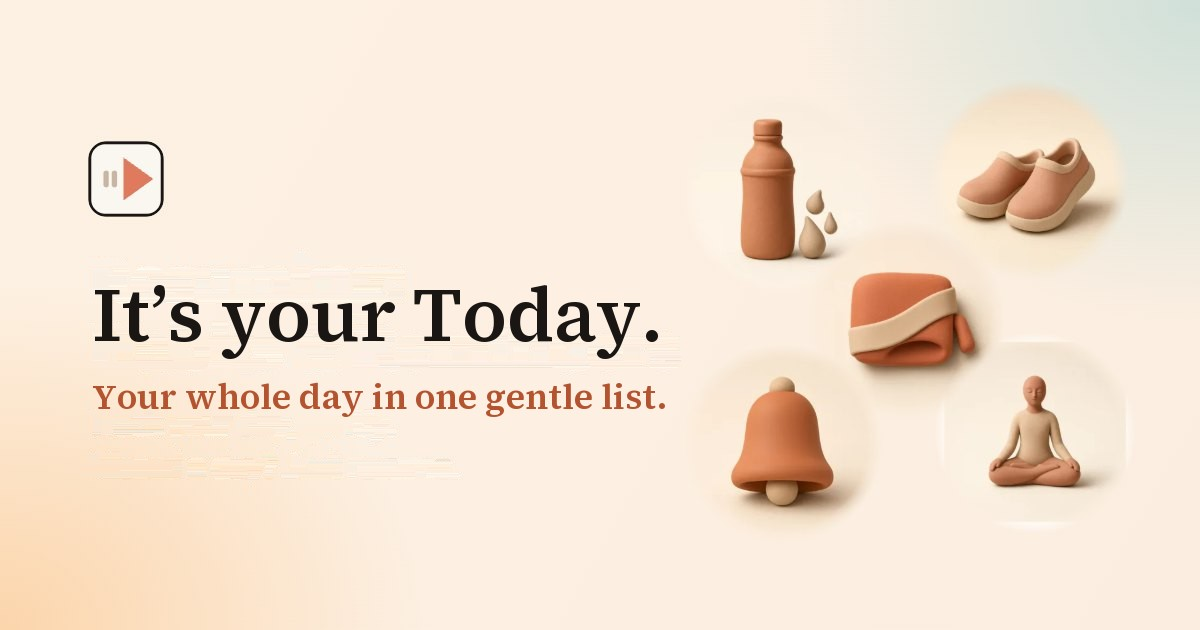
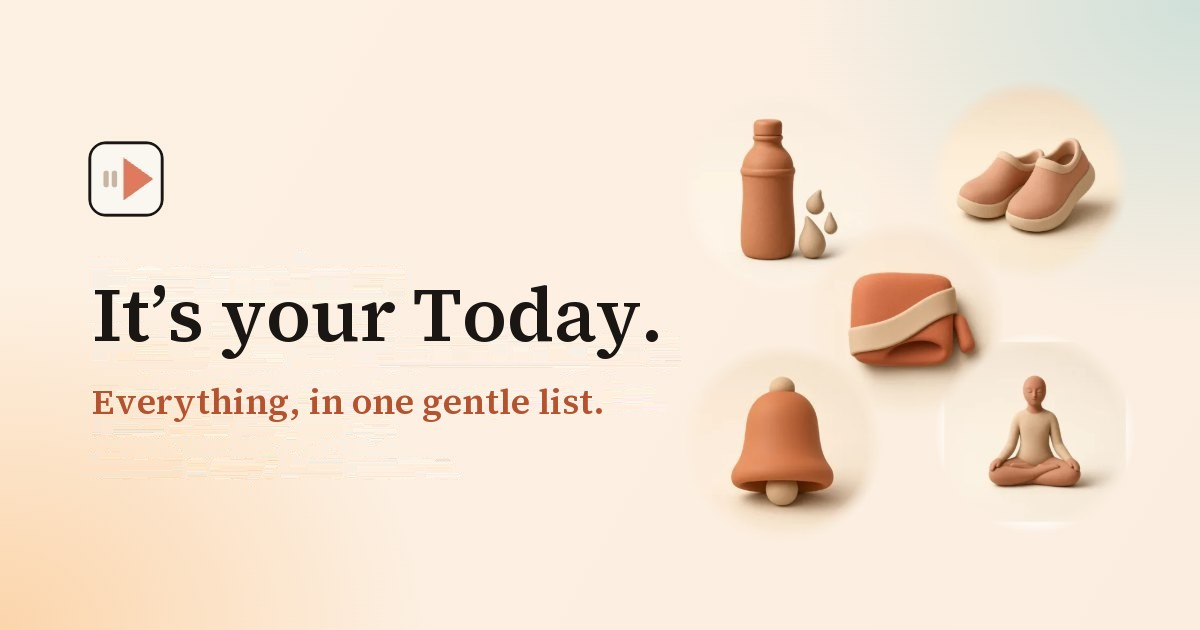
Use Everything, in one gentle list as the subtitle.
The daily-list line now matches the updated tagline on both sites and in the share images.

Changed region(s): [[0.0617, 0.6032, 0.555, 0.6635]]

diff --git a/index.html b/index.html
@@ -9,7 +9,7 @@
     <meta name="theme-color" content="#fff4e8" />
     <meta
       name="description"
-      content="Your whole day in one gentle list: habits, reminders, meetups, health, holidays and games. Free, no ads."
+      content="Everything in one gentle list: habits, reminders, meetups, health, holidays and games. Free, no ads."
     />
     <link rel="canonical" href="https://resuming.me/" />
     <meta property="og:type" content="website" />
@@ -17,7 +17,7 @@
     <meta property="og:title" content="Resuming: It’s your Today" />
     <meta
       property="og:description"
-      content="Your whole day in one gentle list: habits, reminders, meetups, health, holidays and games. Free, no ads."
+      content="Everything in one gentle list: habits, reminders, meetups, health, holidays and games. Free, no ads."
     />
     <meta property="og:url" content="https://resuming.me/" />
     <meta property="og:image" content="https://resuming.me/og.jpg" />
@@ -27,7 +27,7 @@
     <meta name="twitter:title" content="Resuming: It’s your Today" />
     <meta
       name="twitter:description"
-      content="Your whole day in one gentle list: habits, reminders, meetups, health, holidays and games. Free, no ads."
+      content="Everything in one gentle list: habits, reminders, meetups, health, holidays and games. Free, no ads."
     />
     <meta name="twitter:image" content="https://resuming.me/og.jpg" />
     <script>

diff --git a/marketing/src/i18n/en.ts b/marketing/src/i18n/en.ts
@@ -6,7 +6,7 @@ export const en = {
     title: 'Resuming: It’s your Today · Free Habit, Reminder & Meetup App',
     socialTitle: 'Resuming: It’s your Today',
     description:
-      'Your whole day in one gentle list: habits, reminders, meetups, health, holidays and games. Free, no ads, in 7 languages.',
+      'Everything in one gentle list: habits, reminders, meetups, health, holidays and games. Free, no ads, in 7 languages.',
     imageAlt: 'Resuming. Missed a day? Just resume. Habits, Health and Reminders, beside a painting of a woman walking toward the morning sun.',
   },
   nav: {
@@ -35,7 +35,7 @@ export const en = {
     eyebrow: 'No ads · 7 languages · Works in your browser',
     title: 'It’s your Today.',
     titleAccent: 'Just resume.',
-    subtitle: 'Your whole day in one gentle list.',
+    subtitle: 'Everything, in one gentle list.',
     sub: 'A free daily app for your habits, reminders, meetups, health, holidays and games, all on one screen. Plan ahead for tomorrow, and if you miss a day, just resume.',
     lead: 'One gentle list for your day: a short walk, water, Pranayam, your BP, and the family’s bills, doctor visits and weddings. When life gets busy, pick up where you left off. No guilt, no broken streaks.',
     videoLabel: 'The Resuming app: ticking off water, a Kapalabhati timer, resuming a walk, and a wedding reminder with its invitation card.',

diff --git a/src/lib/messages/ta.ts b/src/lib/messages/ta.ts
@@ -38,7 +38,7 @@ export const ta: DeepString<typeof en> = {
     tagline: 'ஒரு நாள் தவறிவிட்டதா?',
     taglineAccent: 'மீண்டும் தொடங்கு.',
     heroTitle: 'இது உங்கள் இன்று.',
-    heroSubtitle: 'உங்கள் முழு நாளும், ஒரு எளிய பட்டியலில்.',
+    heroSubtitle: 'எல்லாமே, ஒரு எளிய பட்டியலில்.',
     explainer:
       'உங்கள் பழக்கங்கள், நினைவூட்டல்கள், சந்திப்புகள், உடல்நலம், பண்டிகைகள், விளையாட்டுகளுக்கான இலவச தினசரி செயலி. ஒரு நாள் தவறிவிட்டதா?',
     getStarted: 'தொடங்கு',

diff --git a/src/lib/messages/bn.ts b/src/lib/messages/bn.ts
@@ -38,7 +38,7 @@ export const bn: DeepString<typeof en> = {
     tagline: 'একটা দিন মিস হয়ে গেছে?',
     taglineAccent: 'আবার চালিয়ে যান।',
     heroTitle: 'এটা আপনার আজ।',
-    heroSubtitle: 'আপনার পুরো দিন, একটি সহজ তালিকায়।',
+    heroSubtitle: 'সবকিছু, একটি সহজ তালিকায়।',
     explainer:
       'আপনার অভ্যাস, রিমাইন্ডার, দেখা-সাক্ষাৎ, স্বাস্থ্য, উৎসব আর খেলার জন্য একটি বিনামূল্যের দৈনিক অ্যাপ। একটা দিন মিস হয়ে গেছে?',
     getStarted: 'শুরু করুন',

diff --git a/src/lib/messages/te.ts b/src/lib/messages/te.ts
@@ -38,7 +38,7 @@ export const te: DeepString<typeof en> = {
     tagline: 'ఒక రోజు తప్పిందా?',
     taglineAccent: 'మళ్లీ కొనసాగించు.',
     heroTitle: 'ఇది మీ ఈరోజు.',
-    heroSubtitle: 'మీ రోజంతా, ఒక సులభమైన జాబితాలో.',
+    heroSubtitle: 'అన్నీ, ఒక సులభమైన జాబితాలో.',
     explainer:
       'మీ అలవాట్లు, రిమైండర్లు, కలయికలు, ఆరోగ్యం, పండుగలు, ఆటల కోసం ఉచిత రోజువారీ యాప్. ఒక రోజు తప్పిందా?',
     getStarted: 'మొదలుపెట్టు',

diff --git a/src/lib/messages/mr.ts b/src/lib/messages/mr.ts
@@ -38,7 +38,7 @@ export const mr: DeepString<typeof en> = {
     tagline: 'एक दिवस चुकला?',
     taglineAccent: 'पुन्हा सुरू करा.',
     heroTitle: 'हा तुमचा आज आहे.',
-    heroSubtitle: 'तुमचा संपूर्ण दिवस, एका सोप्या यादीत.',
+    heroSubtitle: 'सगळं काही, एका सोप्या यादीत.',
     explainer:
       'तुमच्या सवयी, रिमाइंडर, भेटीगाठी, आरोग्य, सण आणि खेळांसाठी एक मोफत दैनंदिन ॲप. एक दिवस चुकला?',
     getStarted: 'सुरू करा',

diff --git a/src/lib/messages/hi.ts b/src/lib/messages/hi.ts
@@ -38,7 +38,7 @@ export const hi: DeepString<typeof en> = {
     tagline: 'एक दिन छूट गया?',
     taglineAccent: 'बस फिर शुरू करो।',
     heroTitle: 'यह आपका आज है।',
-    heroSubtitle: 'आपका पूरा दिन, एक सहज सूची में।',
+    heroSubtitle: 'सब कुछ, एक सहज सूची में।',
     explainer:
       'आपकी आदतों, रिमाइंडर, मुलाकातों, सेहत, त्योहारों और खेलों के लिए एक मुफ़्त रोज़ाना ऐप। एक दिन छूट गया?',
     getStarted: 'शुरू करें',

diff --git a/src/lib/messages/gu.ts b/src/lib/messages/gu.ts
@@ -38,7 +38,7 @@ export const gu: DeepString<typeof en> = {
     tagline: 'એક દિવસ ચૂકી ગયા?',
     taglineAccent: 'ફરી ચાલુ રાખો.',
     heroTitle: 'આ તમારો આજે છે.',
-    heroSubtitle: 'તમારો આખો દિવસ, એક સરળ યાદીમાં.',
+    heroSubtitle: 'બધું જ, એક સરળ યાદીમાં.',
     explainer:
       'તમારી આદતો, રિમાઇન્ડર, મુલાકાતો, આરોગ્ય, તહેવારો અને રમતો માટે એક મફત દૈનિક ઍપ. એક દિવસ ચૂકી ગયા?',
     getStarted: 'શરૂ કરો',

diff --git a/src/hooks/useDocumentMeta.ts b/src/hooks/useDocumentMeta.ts
@@ -2,7 +2,7 @@ import { useEffect } from 'react'
 
 const DEFAULT_TITLE = 'Resuming: Habits & Reminders'
 const DEFAULT_DESCRIPTION =
-  'Your whole day in one gentle list: habits, reminders, meetups, health, holidays and games. Free, no ads.'
+  'Everything in one gentle list: habits, reminders, meetups, health, holidays and games. Free, no ads.'
 
 function upsertMeta(attr: 'name' | 'property', key: string, content: string) {
   let el = document.head.querySelector(`meta[${attr}="${key}"]`)

diff --git a/vite.config.ts b/vite.config.ts
@@ -90,7 +90,7 @@ export default defineConfig({
         name: 'Resuming',
         short_name: 'Resuming',
         description:
-          'Your whole day in one gentle list: habits, reminders, meetups, health, holidays and games. Free, no ads.',
+          'Everything in one gentle list: habits, reminders, meetups, health, holidays and games. Free, no ads.',
         theme_color: '#fff4e8',
         background_color: '#fff4e8',
         display: 'standalone',

diff --git a/src/components/LandingPage.tsx b/src/components/LandingPage.tsx
@@ -48,7 +48,7 @@ export function LandingPage({
     title: 'Resuming: It’s your Today · Habits & Reminders',
     ogTitle: 'Resuming: It’s your Today',
     description:
-      'Your whole day in one gentle list: habits, reminders, meetups, health, holidays and games. Free, no ads.',
+      'Everything in one gentle list: habits, reminders, meetups, health, holidays and games. Free, no ads.',
     path: '/',
   })
 

diff --git a/src/lib/messages/en.ts b/src/lib/messages/en.ts
@@ -32,7 +32,7 @@ export const en = {
     tagline: 'Missed a day?',
     taglineAccent: 'Just resume.',
     heroTitle: 'It’s your Today.',
-    heroSubtitle: 'Your whole day in one gentle list.',
+    heroSubtitle: 'Everything, in one gentle list.',
     explainer:
       'A free daily app for your habits, reminders, meetups, health, holidays and games. Missed a day?',
     getStarted: 'Get started',
